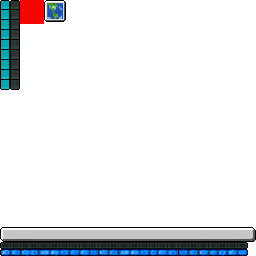
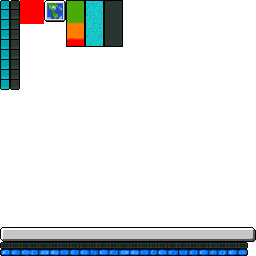
Changed the look of the Oxygen gui and added a second one, since there are two tank slots now.

Changed region(s): [[0.25, 0.0, 0.5, 0.1875]]

diff --git a/src/minecraft/micdoodle8/mods/galacticraft/core/client/ClientProxyCore.java b/src/minecraft/micdoodle8/mods/galacticraft/core/client/ClientProxyCore.java
@@ -334,12 +334,13 @@ public class ClientProxyCore extends CommonProxyCore
             
             if (packetType == 0)
             {
-                final Class[] decodeAs = {Integer.class, String.class};
+                final Class[] decodeAs = {Integer.class, Integer.class, String.class};
                 final Object[] packetReadout = GCCoreUtil.readPacketData(data, decodeAs);
                 
-                if (String.valueOf(packetReadout[1]).equals(String.valueOf(FMLClientHandler.instance().getClient().thePlayer.username)))
+                if (String.valueOf(packetReadout[2]).equals(String.valueOf(FMLClientHandler.instance().getClient().thePlayer.username)))
                 {
                     TickHandlerClient.airRemaining = (Integer) packetReadout[0];
+                    TickHandlerClient.airRemaining2 = (Integer) packetReadout[1];
                 }
             }
             else if (packetType == 1)
@@ -440,6 +441,7 @@ public class ClientProxyCore extends CommonProxyCore
     public static class TickHandlerClient implements ITickHandler
     {
     	public static int airRemaining;
+    	public static int airRemaining2;
     	
     	@Override
     	public void tickStart(EnumSet<TickType> type, Object... tickData)
@@ -604,11 +606,16 @@ public class ClientProxyCore extends CommonProxyCore
 
         		if (player != null && player.worldObj.provider instanceof IGalacticraftWorldProvider)
     			{
-    				final short var8 = 90;
     				int var6 = (airRemaining - 90) * -1;
     				if (airRemaining <= 0) 
     				{
     					var6 = 90;
+    				}
+    				
+    				int var7 = (airRemaining2 - 90) * -1;
+    				if (airRemaining2 <= 0) 
+    				{
+    					var7 = 90;
     				}
     				
     				final float var9 = 0.00390625F;
@@ -627,10 +634,16 @@ public class ClientProxyCore extends CommonProxyCore
     				GL11.glBindTexture(GL11.GL_TEXTURE_2D, minecraft.renderEngine.getTexture("/micdoodle8/mods/galacticraft/core/client/gui/gui.png"));
     				final Tessellator tessellator = Tessellator.instance;
     				tessellator.startDrawingQuads();
-    				tessellator.addVertexWithUV(i - 20, k / 2 + 45, -90D, 0 * 0.00390625F, 90 * 0.00390625F);
-    				tessellator.addVertexWithUV(i - 10, k / 2 + 45, -90D, 10 * 0.00390625F, 90 * 0.00390625F);
-    				tessellator.addVertexWithUV(i - 10, k / 2 - 45, -90D, 10 * 0.00390625F, 0 * 0.00390625F);
-    				tessellator.addVertexWithUV(i - 20, k / 2 - 45, -90D, 0 * 0.00390625F, 0 * 0.00390625F);
+    				tessellator.addVertexWithUV(i - 29, 33.5 + 23.5, -90D, (85) * 0.00390625F, 		47 * 0.00390625F);
+    				tessellator.addVertexWithUV(i - 10, 33.5 + 23.5, -90D, (85 + 19) * 0.00390625F, 	47 * 0.00390625F);
+    				tessellator.addVertexWithUV(i - 10, 33.5 - 23.5, -90D, (85 + 19) * 0.00390625F, 	0 * 0.00390625F);
+    				tessellator.addVertexWithUV(i - 29, 33.5 - 23.5, -90D, (85) * 0.00390625F, 		0 * 0.00390625F);
+    				tessellator.draw();
+    				tessellator.startDrawingQuads();
+    				tessellator.addVertexWithUV(i - 49, 33.5 + 23.5, -90D, (85) * 0.00390625F, 		47 * 0.00390625F);
+    				tessellator.addVertexWithUV(i - 30, 33.5 + 23.5, -90D, (85 + 19) * 0.00390625F, 	47 * 0.00390625F);
+    				tessellator.addVertexWithUV(i - 30, 33.5 - 23.5, -90D, (85 + 19) * 0.00390625F, 	0 * 0.00390625F);
+    				tessellator.addVertexWithUV(i - 49, 33.5 - 23.5, -90D, (85) * 0.00390625F, 		0 * 0.00390625F);
     				tessellator.draw();
     				GL11.glDepthMask(true);
     				GL11.glEnable(GL11.GL_DEPTH_TEST);
@@ -640,11 +653,38 @@ public class ClientProxyCore extends CommonProxyCore
     				if (var6 > 0 || var6 <= 0) 
     				{
     					final Tessellator tessellator2 = Tessellator.instance;
+
     					tessellator2.startDrawingQuads();
-    					tessellator2.addVertexWithUV(i - 20, k / 2 - 45 + var6, 0, 10 * 0.00390625F, var6 * 0.00390625F);
-    					tessellator2.addVertexWithUV(i - 10, k / 2 - 45 + var6, 0, 20 * 0.00390625F, var6 * 0.00390625F);
-    					tessellator2.addVertexWithUV(i - 10, k / 2 - 45, 0, 20 * 0.00390625F, 0 * 0.00390625F);
-    					tessellator2.addVertexWithUV(i - 20, k / 2 - 45, 0, 10 * 0.00390625F, 0 * 0.00390625F);
+        				tessellator.addVertexWithUV(i - 48, 34.5 - 23.5 + (var6 / 2), 	0, (105) * 0.00390625F, 		(var6 / 2) * 0.00390625F);
+        				tessellator.addVertexWithUV(i - 31, 34.5 - 23.5 + (var6 / 2), 	0, (105 + 17) * 0.00390625F, 	(var6 / 2) * 0.00390625F);
+        				tessellator.addVertexWithUV(i - 31, 34.5 - 23.5,	 			0, (105 + 17) * 0.00390625F, 	1 * 0.00390625F);
+        				tessellator.addVertexWithUV(i - 48, 34.5 - 23.5, 				0, (105) * 0.00390625F, 		1 * 0.00390625F);
+    					tessellator2.draw();
+
+    					tessellator2.startDrawingQuads();
+        				tessellator.addVertexWithUV(i - 49, 34.5 - 23.5 + (var6 / 2), 		0, (66) * 0.00390625F, 		(var6 / 2) * 0.00390625F);
+        				tessellator.addVertexWithUV(i - 31, 34.5 - 23.5 + (var6 / 2), 		0, (66 + 17) * 0.00390625F, (var6 / 2) * 0.00390625F);
+        				tessellator.addVertexWithUV(i - 31, 34.5 - 23.5 + (var6 / 2) - 1,	0, (66 + 17) * 0.00390625F, ((var6 / 2) - 1) * 0.00390625F);
+        				tessellator.addVertexWithUV(i - 49, 34.5 - 23.5 + (var6 / 2) - 1, 	0, (66) * 0.00390625F, 		((var6 / 2) - 1) * 0.00390625F);
+    					tessellator2.draw();
+    				}
+    				
+    				if (var7 > 0 || var7 <= 0) 
+    				{
+    					final Tessellator tessellator2 = Tessellator.instance;
+
+    					tessellator2.startDrawingQuads();
+        				tessellator.addVertexWithUV(i - 28, 34.5 - 23.5 + (var7 / 2), 	0, (105) * 0.00390625F, 		(var7 / 2) * 0.00390625F);
+        				tessellator.addVertexWithUV(i - 11, 34.5 - 23.5 + (var7 / 2), 	0, (105 + 17) * 0.00390625F, 	(var7 / 2) * 0.00390625F);
+        				tessellator.addVertexWithUV(i - 11, 34.5 - 23.5,	 			0, (105 + 17) * 0.00390625F, 	1 * 0.00390625F);
+        				tessellator.addVertexWithUV(i - 28, 34.5 - 23.5, 				0, (105) * 0.00390625F, 		1 * 0.00390625F);
+    					tessellator2.draw();
+
+    					tessellator2.startDrawingQuads();
+        				tessellator.addVertexWithUV(i - 29, 34.5 - 23.5 + (var7 / 2), 	0, (66) * 0.00390625F, 		(var7 / 2) * 0.00390625F);
+        				tessellator.addVertexWithUV(i - 11, 34.5 - 23.5 + (var7 / 2), 	0, (66 + 17) * 0.00390625F, (var7 / 2) * 0.00390625F);
+        				tessellator.addVertexWithUV(i - 11, 34.5 - 23.5 + (var7 / 2) - 1,	 			0, (66 + 17) * 0.00390625F, ((var7 / 2) - 1) * 0.00390625F);
+        				tessellator.addVertexWithUV(i - 29, 34.5 - 23.5 + (var7 / 2) - 1, 				0, (66) * 0.00390625F, 		((var7 / 2) - 1) * 0.00390625F);
     					tessellator2.draw();
     				}
     			}
